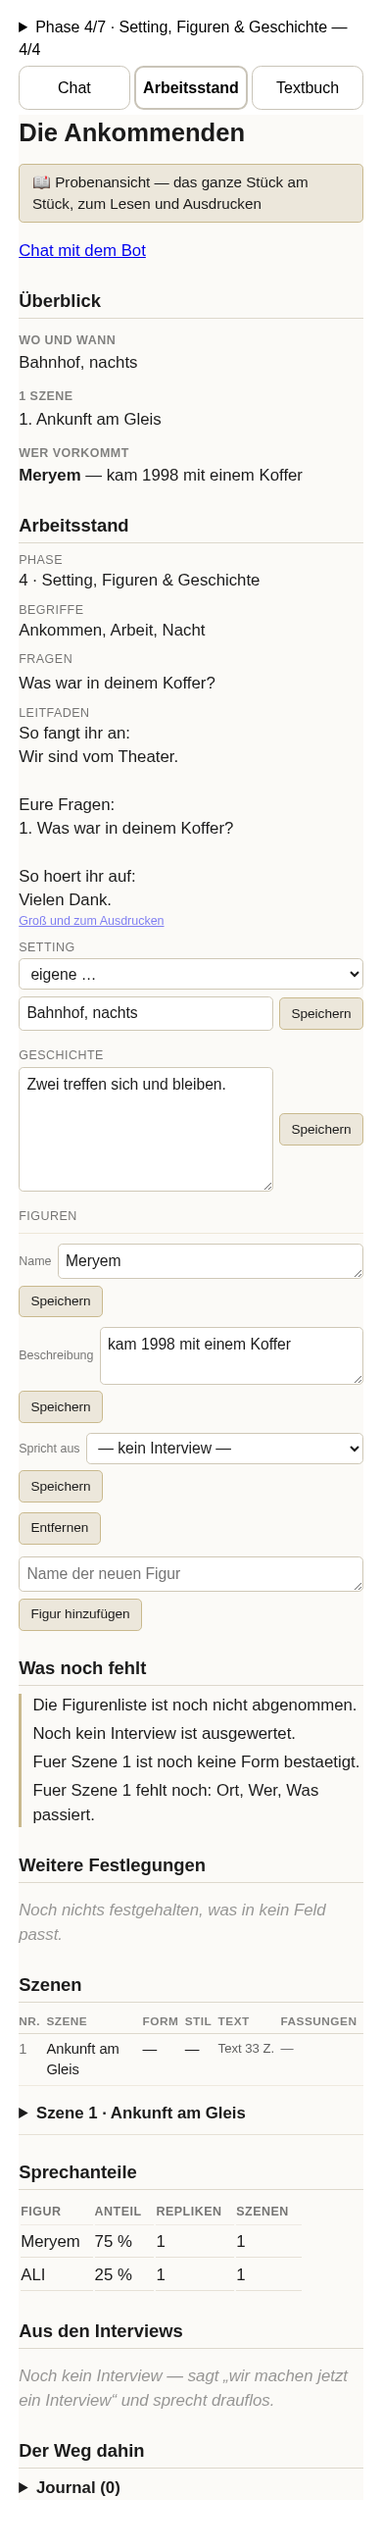
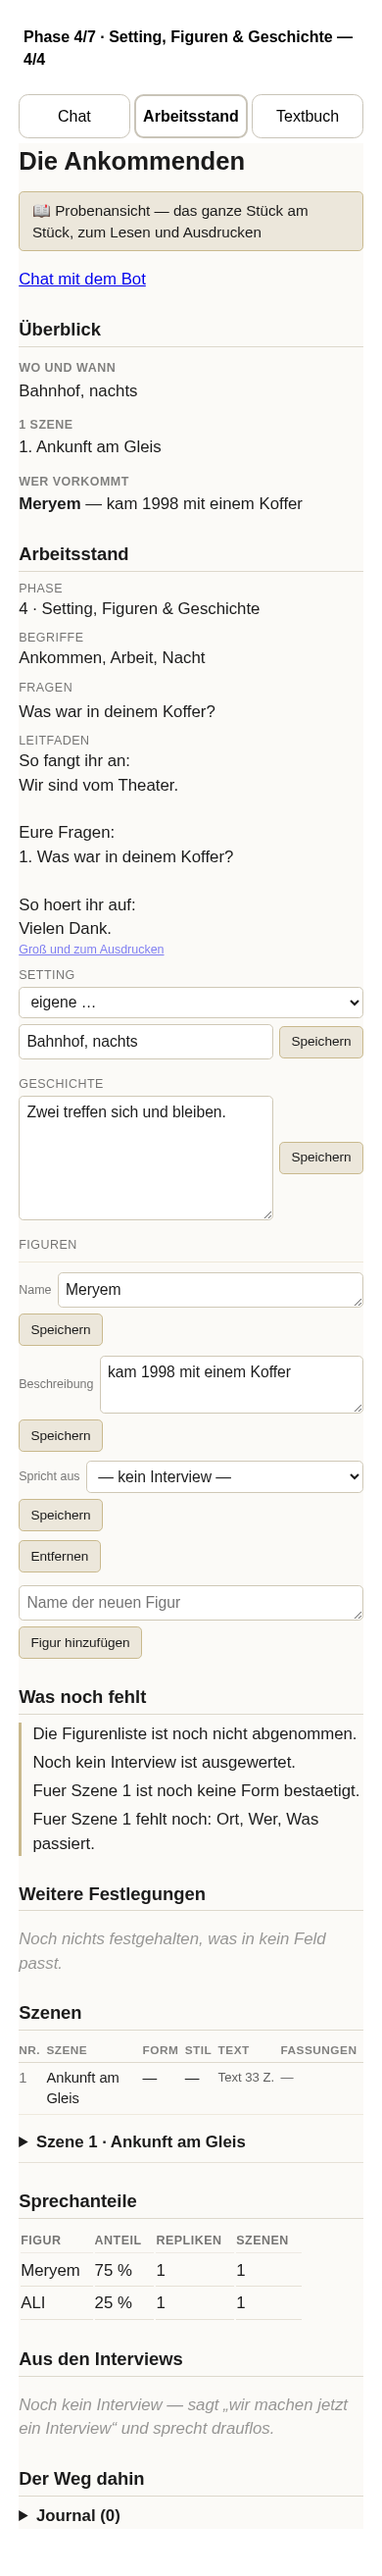
Fix-Runde 1: Phasenleiste bekommt CSS, Chat-Panel verliert den Link auf sich selbst
Die Screenshots aus Aufgabe 16 zeigten zwei Befunde: die Phasenleiste lief
ohne jedes eigenes CSS (nummerierte Liste, ~20px-Tapflaechen, keine aktive
Hervorhebung, volle Laptop-Breite statt Panel-Ausrichtung) beim
Browser-Vorgabestil mit, und das Chat-Panel der vereinten Seite zeigte einen
"Zur Gruppenseite"-Link auf sich selbst.

- web_vereint._CSS_VEREINT: kompakter Regelblock fuer .roadmap -- keine
  Listenpunkte, >=44px Tapflaechen, aktive Phase hervorgehoben, Aufgabenzeilen
  sichtbar klickbar, dieselbe max-width wie die Panels, die nicht-klickbare
  Telegram-Variante (.phase-name) konsistent mitgestylt.
- web_chat.chat_koerper(mit_gruppenlink=...): neuer Parameter, Vorgabe True
  (Chat-Einzelseite), auf der vereinten Seite False gesetzt.
- Screenshots neu erzeugt, zwei neue Tests (chat_koerper direkt und ueber
  die vereinte Seite).

diff --git a/interview_theater/web_vereint.py b/interview_theater/web_vereint.py
@@ -190,7 +190,13 @@ def _ein_selektor(selektor: str, scope: str) -> str:
 
 _TEXT_TAB = {"chat": "Chat", "stand": "Arbeitsstand", "textbuch": "Textbuch"}
 
-#: Nur Struktur, keine Gestaltung -- die UX-Karte gestaltet (Kartentext).
+#: Nur Struktur, kaum Gestaltung -- die UX-Karte gestaltet im Grossen. Die
+#: Phasenleiste bekam in Fix-Runde 1 (Aufgabe 16) trotzdem ein Mindestmass:
+#: ohne jedes CSS blieb sie beim Browser-Vorgabestil haengen (nummerierte
+#: Liste, Aufzaehlungspunkte, ~20px hohe Knoepfe als Tapflaeche, keine
+#: Hervorhebung der aktiven Phase) und spannte auf dem Laptop ueber die volle
+#: Breite, waehrend die Panels (ueber ``_CSS_GRUPPE``/``_CSS_TEXTBUCH``) auf
+#: 44rem zentriert sind -- derselbe Wert hier, aus demselben Grund.
 _CSS_VEREINT = """
 .tabs { position: sticky; top: 0; z-index: 5; display: flex; gap: .3rem;
         padding: .3rem 0; background: inherit; }
@@ -207,6 +213,34 @@ _CSS_VEREINT = """
      Animation. Nur der Cursor hoert auf zu blinken. */
   .blase.vorlaeufig::after { animation: none; }
 }
+/* Die Phasenleiste -- auf derselben Breite wie die Panels, damit der
+   Uebergang zum Stand-Panel darunter nicht springt. */
+.roadmap { max-width: 44rem; margin: 0 auto .6rem; }
+.roadmap summary { cursor: pointer; padding: .6rem .3rem; min-height: 44px;
+                   display: flex; align-items: center; font-weight: 600; }
+/* Weder Nummern noch Punkte -- die Nummer steht schon im Knopftext
+   ("N · Name"), ein zweites "1." davor waere eine doppelte Wahrheit. */
+.roadmap ol.phasen, .roadmap ul.aufgaben { list-style: none; margin: 0; padding: 0; }
+.roadmap li.phase { margin: .5rem 0; padding: .3rem .4rem; border-radius: .5rem; }
+/* Die aktive Phase sichtbar markiert -- sonst sieht die Liste nach sieben
+   gleichen Zeilen aus, und "wo stehen wir" ist genau die Frage der Karte. */
+.roadmap li.phase.aktiv { background: #eef3ea; border: 1px solid #b9cdae; }
+/* Knopf (klickbare Gruppe) und Span (Telegram-Gruppe, AGENTS.md
+   "Abschlussreview I3") sehen gleich aus -- nur eines davon ist ein Knopf. */
+.roadmap .phase-knopf, .roadmap .phase-name {
+  display: flex; align-items: center; width: 100%; min-height: 44px;
+  box-sizing: border-box; font: inherit; font-weight: 600; text-align: left;
+  padding: .4rem .6rem; border-radius: .4rem;
+}
+.roadmap .phase-knopf { border: 1px solid #c9c4b8; background: #fff; cursor: pointer; }
+.roadmap .phase-knopf[data-sicher="1"] { background: #fff3cf; border-color: #d8a93b; }
+.roadmap .phase-name { border: none; background: transparent; padding-left: .2rem; }
+/* Eine Aufgabenzeile loest einen Klick aus (Sprung zu Tab + Feld) --
+   sie soll auch danach aussehen. */
+.roadmap li.aufgabe { display: flex; align-items: center; gap: .4rem;
+                      min-height: 2.4rem; padding: .15rem .4rem .15rem 1.1rem;
+                      cursor: pointer; border-radius: .3rem; }
+.roadmap li.aufgabe:hover { background: #f1efe7; }
 """
 
 #: Hoechstens ein Verbindungsaufbau zum Strom je drei Sekunden -- derselbe
@@ -869,9 +903,11 @@ def seite(daten, chatdaten, roadmapdaten, nonce_wert, token, praefix,
         # ``mit_nonce=False``: das Stand-Panel traegt sein ``id="nonce"``
         # schon (``_bearbeiten_html``), mit demselben Wert -- ein zweites
         # Element mit derselben id waere ungueltiges HTML.
+        # ``mit_gruppenlink=False`` (Fix-Runde 1): der Link fuehrt sonst auf
+        # die Seite, auf der er selbst steht (``/g/<token>`` -> ``<token>``).
         panels["chat"] = web_chat.chat_koerper(
             chatdaten, nonce_wert, token, segment_ms,
-            basis=f"{token}/", mit_nonce=False,
+            basis=f"{token}/", mit_nonce=False, mit_gruppenlink=False,
         )
     koerper = [_leiste_html(roadmapdaten, klickbar=chat_vorhanden),
               _tabs_html(vorgabe, tabs)]

diff --git a/interview_theater/web_chat.py b/interview_theater/web_chat.py
@@ -1373,7 +1373,8 @@ def _blase_html(n: dict, basis: str = "") -> str:
 
 
 def chat_koerper(daten: dict, nonce_wert: str, token: str, segment_ms: int,
-                  basis: str = "", mit_nonce: bool = True) -> str:
+                  basis: str = "", mit_nonce: bool = True,
+                  mit_gruppenlink: bool = True) -> str:
     """Der Rumpf der Chatansicht -- ohne die Klammer aus ``web._seite``.
 
     Herausgeloest fuer die vereinte Seite (30.09.2026, Karte W): dort steht
@@ -1392,7 +1393,13 @@ def chat_koerper(daten: dict, nonce_wert: str, token: str, segment_ms: int,
     Panels bekommen denselben ``nonce_wert``) -- ein zweites Element mit
     derselben id waere ungueltiges HTML, und ``document.getElementById``
     faende ohnehin nur das erste. Die Chat-Einzelseite braucht ihr eigenes
-    Feld weiterhin (Vorgabe ``True``)."""
+    Feld weiterhin (Vorgabe ``True``).
+
+    ``mit_gruppenlink`` ist ``False`` auf der vereinten Seite (Fix-Runde 1,
+    Karte W): dort zeigt der Link auf ``/g/<token>`` -- also auf die Seite,
+    auf der er selbst steht. Auf der Chat-Einzelseite (``/g/<token>/chat``)
+    bleibt er, weil er dort tatsaechlich woanders hinfuehrt (Vorgabe
+    ``True``)."""
     modus = bool(daten["interviewmodus"])
     blasen = "\n".join(_blase_html(n, basis) for n in daten["nachrichten"])
     if not blasen:
@@ -1402,10 +1409,14 @@ def chat_koerper(daten: dict, nonce_wert: str, token: str, segment_ms: int,
         f'<input type="hidden" id="nonce" value="{html.escape(nonce_wert, quote=True)}">\n'
         if mit_nonce else ""
     )
-    return (
-        f"<h1>{html.escape(daten.get('titel') or _TEXT_TITEL)}</h1>\n"
+    gruppenlink = (
         f'<p><a href="{html.escape(token)}">'
         f"{html.escape(_TEXT_ZUR_GRUPPENSEITE)}</a></p>\n"
+        if mit_gruppenlink else ""
+    )
+    return (
+        f"<h1>{html.escape(daten.get('titel') or _TEXT_TITEL)}</h1>\n"
+        f"{gruppenlink}"
         f'<noscript><p class="leer">{html.escape(_TEXT_OHNE_JS)}</p></noscript>\n'
         f'<div class="verlauf" id="verlauf" data-letzte="{daten["letzte"]}" '
         f'data-aenderung="{int(daten.get("aenderung") or 0)}">\n'

diff --git a/tests/test_web_vereint.py b/tests/test_web_vereint.py
@@ -278,6 +278,26 @@ def test_chat_koerper_allein_traegt_weiterhin_eine_nonce(aufbau):
     assert text.count('id="nonce"') == 1
 
 
+# -- "Zur Gruppenseite" nur, wo sie woanders hinfuehrt -----------------------
+
+# Fix-Runde 1 (Aufgabe 16): auf der vereinten Seite (``/g/<token>``) zeigte
+# der Link im Chat-Panel auf ``/g/<token>`` -- also auf die Seite, auf der er
+# selbst stand. ``mit_gruppenlink=False`` unterdrueckt ihn dort. Die
+# Chat-Einzelseite selbst ist seit derselben Karte nicht mehr per HTTP
+# erreichbar -- ``/g/<token>/chat`` leitet schon weiter (siehe
+# ``test_die_alte_chatadresse_leitet_auf_den_tab`` unten), die Vorgabe
+# ``mit_gruppenlink=True`` von ``chat_koerper``/``chat_html`` bleibt als
+# Funktion aber bestehen und wird in ``tests/test_web_koerper.py`` direkt
+# geprueft (``test_mit_gruppenlink_schaltet_den_link_ab``).
+
+
+def test_die_vereinte_seite_zeigt_keinen_link_auf_sich_selbst(aufbau):
+    from interview_theater import web_chat
+    basis, token, _pfad = aufbau
+    _status, text, _kopf = _hole(f"{basis}/g/{token}")
+    assert web_chat._TEXT_ZUR_GRUPPENSEITE not in text
+
+
 # -- alte Adressen ----------------------------------------------------------
 
 

diff --git a/tests/test_web_koerper.py b/tests/test_web_koerper.py
@@ -60,6 +60,18 @@ def test_die_basis_steht_im_chatkoerper(tmp_path):
     assert 'data-basis="tok/"' in mit
 
 
+def test_mit_gruppenlink_schaltet_den_link_ab(tmp_path):
+    """Fix-Runde 1 (Aufgabe 16): auf der vereinten Seite fuehrte der Link
+    auf die Seite, auf der er selbst stand -- ``mit_gruppenlink=False``
+    laesst ihn weg, die Vorgabe (Chat-Einzelseite) behaelt ihn."""
+    daten = {"titel": "x", "nachrichten": [], "letzte": 0,
+             "interviewmodus": False, "tippt": False, "antworten": {}}
+    mit = web_chat.chat_koerper(daten, "n", "tok", 45_000)
+    ohne = web_chat.chat_koerper(daten, "n", "tok", 45_000, mit_gruppenlink=False)
+    assert web_chat._TEXT_ZUR_GRUPPENSEITE in mit
+    assert web_chat._TEXT_ZUR_GRUPPENSEITE not in ohne
+
+
 def test_das_chat_js_baut_seine_pfade_ueber_die_basis():
     """Ohne diese Regel zeigte jeder ``fetch`` der vereinten Seite auf
     ``/g/chat/zustand`` -- ein stilles 404 im Browser."""
